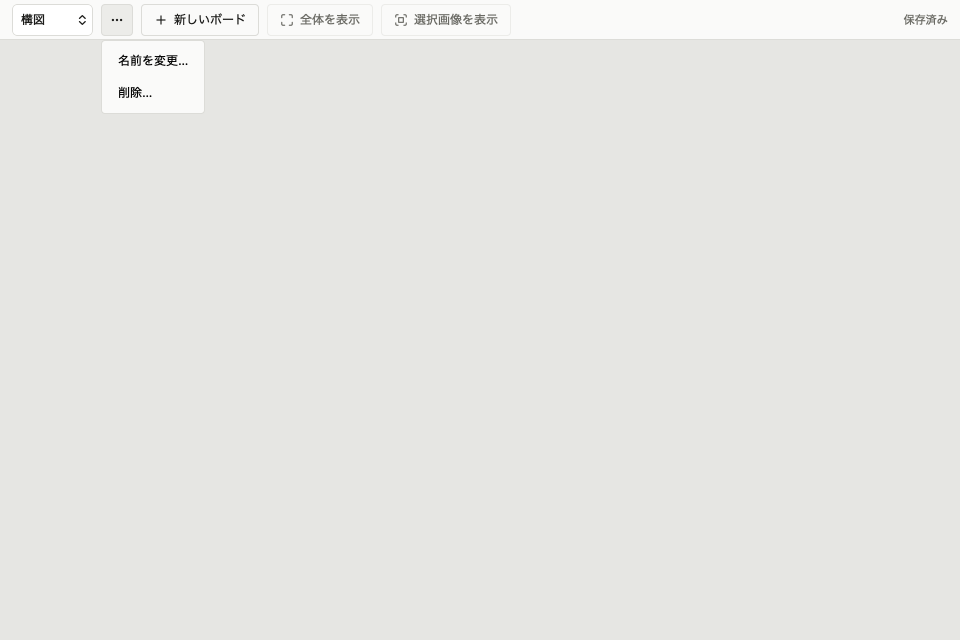
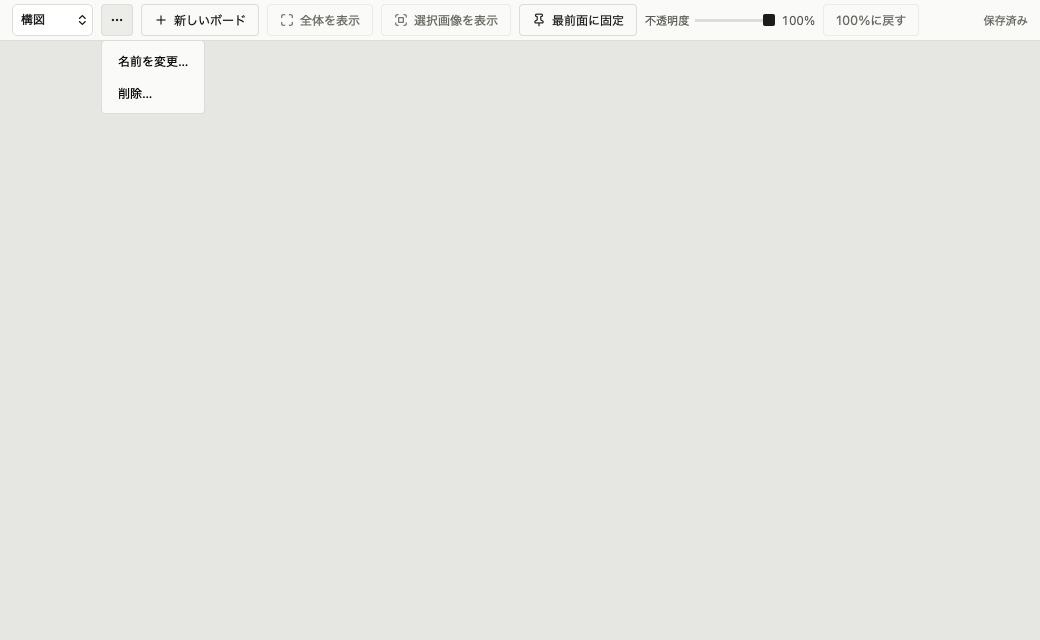
fix: ボードの上部の操作が収まらないときは折り返し、使い方を書く（FR-705、FR-707）
最前面と不透明度の操作を足すと、初めの幅（960）でも上部の帯に収まらず、
右端の保存の状態が隠れ、横スクロールのバーがボタンに重なった（実アプリで
見つけた）。横にスクロールさせるのをやめて折り返し、どの幅でも全部の操作と
保存の状態が見えるようにする。初めの幅は1段に収まる1040にする。

ユーザーガイドに、固定・不透明度・位置と大きさの覚え方を書く。

Changed region(s): [[0.0, 0.0, 0.875, 0.1562], [0.9375, 0.0, 1.0, 0.0625]]

diff --git a/src/board/Board.css b/src/board/Board.css
@@ -5,15 +5,16 @@
   background: var(--color-board);
 }
 
-/* 狭いウィンドウでも操作が隠れないよう、収まらなければ横にスクロールする（docs/design.md） */
+/* 狭いウィンドウでも操作が隠れないよう、収まらなければ折り返して段を増やす（docs/design.md）。
+   横にスクロールさせると、初めの大きさでも右端の保存の状態が隠れ、スクロールバーがボタンに重なる */
 .board__toolbar {
   display: flex;
   flex: none;
+  flex-wrap: wrap;
   align-items: center;
-  gap: var(--space-3);
-  height: var(--size-board-toolbar);
-  padding: 0 var(--space-4);
-  overflow-x: auto;
+  gap: var(--space-1) var(--space-3);
+  min-height: var(--size-board-toolbar);
+  padding: var(--space-1) var(--space-4);
   border-bottom: var(--border);
   background: var(--color-surface);
 }
@@ -33,6 +34,15 @@
 .board__pin[aria-pressed='true'] {
   background: var(--color-selected);
   font-weight: var(--font-weight-bold);
+}
+
+/* 折り返す前に部品が縮んで、文字やアイコンが欠けないようにする */
+.board__toolbar > * {
+  flex: none;
+}
+
+.board__opacity .slider {
+  width: calc(var(--size-progress-bar) / 2);
 }
 
 .board__opacity {

diff --git a/e2e/docs-screenshots.ts b/e2e/docs-screenshots.ts
@@ -75,7 +75,7 @@ test('設定', async ({ page }) => {
 
 test('アイデアボード', async ({ page }) => {
   // 専用ウィンドウの初めの大きさで撮る
-  await page.setViewportSize({ width: 960, height: 640 })
+  await page.setViewportSize({ width: 1040, height: 640 })
   await page.addInitScript(() => {
     const board = (id: number, name: string) => ({ id, name, placement_count: 0, updated_at: id })
     sessionStorage.setItem(

diff --git a/src-tauri/src/main.rs b/src-tauri/src/main.rs
@@ -253,7 +253,8 @@ async fn show_board_window(app: AppHandle) -> Result<(), String> {
         // 枠と不透明度を当て終えてから見せる。先に見せると、前の位置に不透明なまま一瞬出る
         let w = WebviewWindowBuilder::new(&app, BOARD, WebviewUrl::App("index.html".into()))
             .title("アイデアボード")
-            .inner_size(960.0, 640.0)
+            // 上部の操作が1段に収まる幅
+            .inner_size(1040.0, 640.0)
             .min_inner_size(480.0, 320.0)
             .always_on_top(display.always_on_top)
             .visible(false)

diff --git a/docs/tasks/phase2.md b/docs/tasks/phase2.md
@@ -1,10 +1,10 @@
 # フェーズ2 タスク一覧（アイデアボード）
 
-最終更新：2026-11-10
+最終更新：2026-11-11
 
 [要件定義書](../requirements.md) の5.2・5.7・6〜10章について、実装前の対話で決めた内容を作業単位に分けた一覧です。仕様は要件定義書、画面の決まりは [design.md](../design.md) を正本とします。
 
-進み具合：タスク0（試作アプリでのネイティブ機能の確認）と、タスク1（DBとRustの保存API）が終わった。どちらも `feat/phase2-idea-board` にあり、まだ main には入っていない。タスク0は [ネイティブ機能の確認](../../spikes/board-native/README.md)、タスク1は [保存APIと検証記録](phase2-task1.md) に記録。タスク2・3（ON/OFF・入口・専用ウィンドウ、ボードの作成・切り替え・名前・削除）は `feat/phase2-board-window` で実装し、統合前の確認待ち。タスク4（ギャラリーからボードに追加）は `feat/phase2-board-add` で実装し、統合前の確認待ち。タスク5（自動保存・切り替え・終了の保存待ち）は `feat/phase2-save-lifecycle` で実装し、統合前の確認待ち。タスク6・7（選択・移動・拡縮・配置を外す、パン・ズーム・表示の保存）は `feat/phase2-board-canvas` で実装し、統合前の確認待ち。タスク8（重なり順、取り消し・やり直し）は `feat/phase2-board-history` で実装し、統合前の確認待ち。タスク9・10（反転・回転・グレースケール、トリミング）は `feat/phase2-board-transforms` で実装し、統合前の確認待ち。タスク11〜21は未着手。利用者によるマージ前の実機確認は未実施です。
+進み具合：タスク0（試作アプリでのネイティブ機能の確認）と、タスク1（DBとRustの保存API）が終わった。どちらも `feat/phase2-idea-board` にあり、まだ main には入っていない。タスク0は [ネイティブ機能の確認](../../spikes/board-native/README.md)、タスク1は [保存APIと検証記録](phase2-task1.md) に記録。タスク2・3（ON/OFF・入口・専用ウィンドウ、ボードの作成・切り替え・名前・削除）は `feat/phase2-board-window` で実装し、統合前の確認待ち。タスク4（ギャラリーからボードに追加）は `feat/phase2-board-add` で実装し、統合前の確認待ち。タスク5（自動保存・切り替え・終了の保存待ち）は `feat/phase2-save-lifecycle` で実装し、統合前の確認待ち。タスク6・7（選択・移動・拡縮・配置を外す、パン・ズーム・表示の保存）は `feat/phase2-board-canvas` で実装し、統合前の確認待ち。タスク8（重なり順、取り消し・やり直し）は `feat/phase2-board-history` で実装し、統合前の確認待ち。タスク9・10（反転・回転・グレースケール、トリミング）は `feat/phase2-board-transforms` で実装し、統合前の確認待ち。タスク11（最前面・不透明度・位置と大きさ）は `feat/phase2-window-display` で実装し、統合前の確認待ち。タスク12〜21は未着手。利用者によるマージ前の実機確認は未実施です。
 
 完了条件：作画中にこのアプリだけで参考画像を並べられる。利用者が [phase2-check.md](phase2-check.md) をリリース用ビルドで通しで確認する。
 
